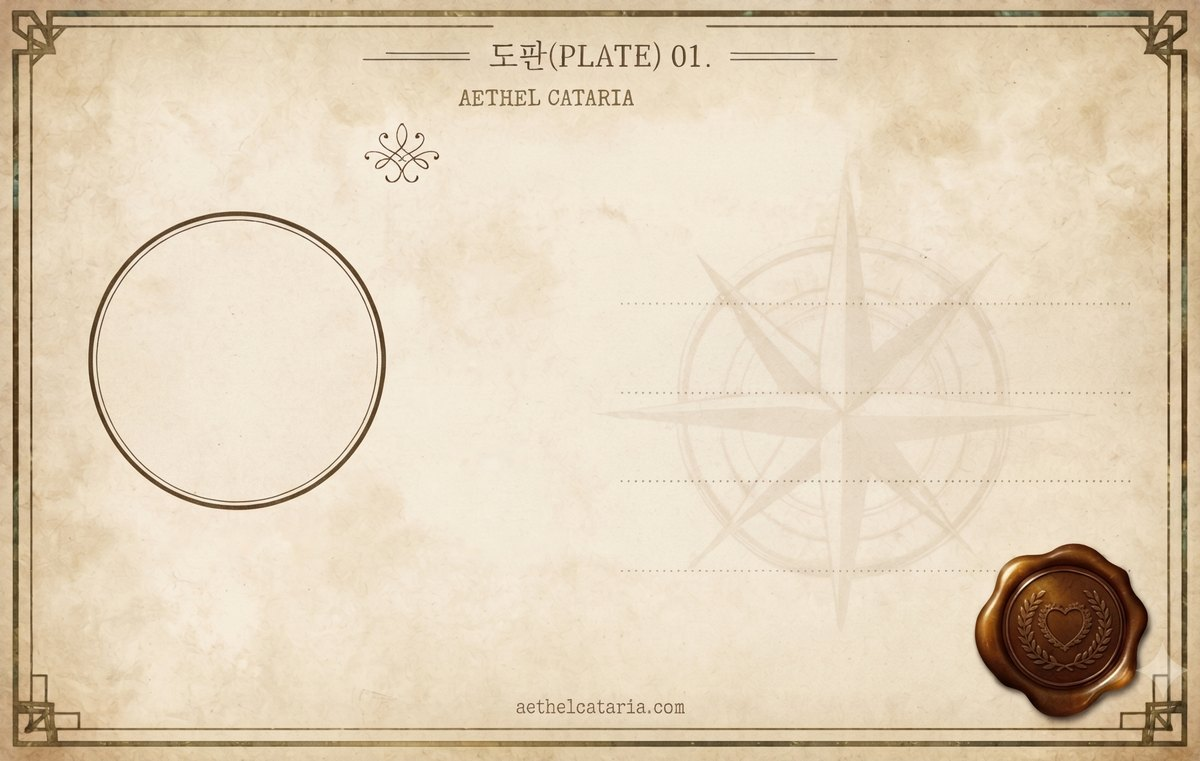
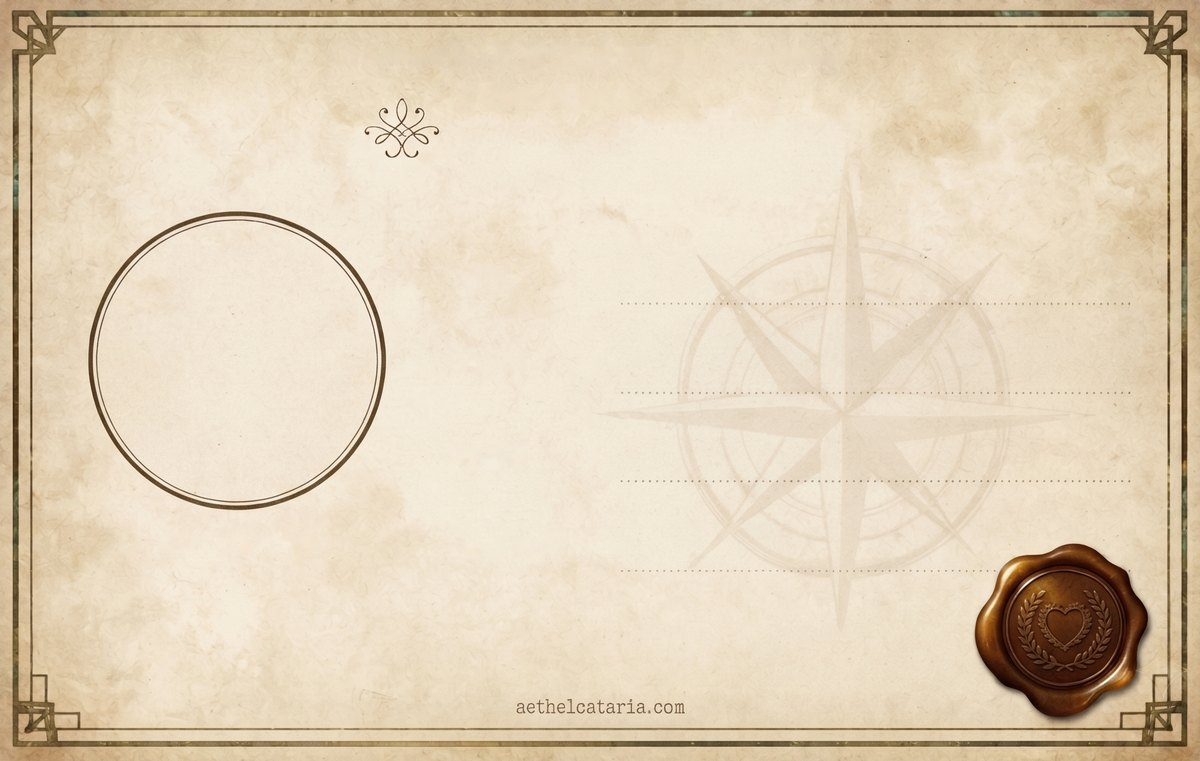
update

diff --git a/citizen.html b/citizen.html
@@ -284,7 +284,8 @@
     x.beginPath(); if(x.roundRect){ x.roundRect(0,0,W,H,12); } else { x.rect(0,0,W,H); } x.clip();
     if(bgImg.complete&&bgImg.naturalWidth){ x.drawImage(bgImg,0,0,W,H); } else { x.fillStyle='#ecdcb4'; x.fillRect(0,0,W,H); }
     // title
-    x.textBaseline='alphabetic'; x.textAlign='left'; x.fillStyle=INK; x.font='46px '+DISP; x.fillText('정원 주민 등록증',458,161);
+    x.textBaseline='alphabetic'; x.textAlign='left'; x.fillStyle=INK; x.fillStyle=LBL; x.font='19px '+MONO; if('letterSpacing' in x) x.letterSpacing='0.5px'; x.fillText('AETHEL CATARIA',458,82); if('letterSpacing' in x) x.letterSpacing='0px';
+    x.fillStyle=INK; x.font='46px '+DISP; x.fillText('정원 주민 등록증',458,140);
     // portrait
     var cx=238,cy=360,r=139;
     x.save(); x.beginPath(); x.arc(cx,cy,r,0,Math.PI*2); x.closePath(); x.clip();
@@ -317,7 +318,14 @@
     x.restore();
     return c.toDataURL('image/png');
   }
-  function fontsReady(){ try{ return Promise.all([document.fonts.load('46px "Gowun Batang"'),document.fonts.load('58px "Song Myung"'),document.fonts.load('22px "Special Elite"')]).catch(function(){}); }catch(e){ return Promise.resolve(); } }
+  var FIXED_TXT='정원 주민 등록증 이름 직업 거주지 등록일 등록 번호 에델 카타리아 영토 · 장부 견 본 발급 약초사 바바 당신의 이름 정원 주민 0123456789년월일 EC- aethelcataria.com AETHEL CATARIA '+PLACES.join('');
+  function allTxt(extra){ var jobs=''; try{ jobs=Array.prototype.map.call(document.getElementById('rzJob').options,function(o){return o.text;}).join(''); }catch(e){} return FIXED_TXT+jobs+(extra||''); }
+  function fontsReady(extra){
+    try{
+      var t=allTxt(extra);
+      return Promise.all([document.fonts.load('30px "Gowun Batang"',t),document.fonts.load('46px "Song Myung"',t),document.fonts.load('22px "Special Elite"','AETHEL CATARIA aethelcataria.com 0123456789')]).catch(function(){});
+    }catch(e){ return Promise.resolve(); }
+  }
   var issuedName='';
   var SHARE_URL='https://aethelcataria.com/citizen.html';
   var SHARE_TEXT='나도 정원 주민이 됐어요! #에델카타리아 #정원주민등록증 · 11월 20일 텀블벅 오픈';
@@ -348,9 +356,14 @@
     }
     if(navigator.clipboard&&navigator.clipboard.writeText){ navigator.clipboard.writeText(SHARE_URL).then(function(){ note('링크를 복사했어요.'); },fallback); } else fallback();
   });
-  function redraw(){
+  function redrawNow(){
     if(issuedName){ var u=draw(issuedName,true); imgEl.src=u; save.href=u; }
     else { imgEl.src=draw('',false); }
+  }
+  function redraw(){
+    var t=allTxt(issuedName+jobValue());
+    var ok=false; try{ ok=document.fonts.check('30px "Gowun Batang"',t)&&document.fonts.check('46px "Song Myung"',t); }catch(e){}
+    if(ok){ redrawNow(); } else { fontsReady(issuedName+jobValue()).then(redrawNow); }
   }
   function sample(){ imgEl.src=draw('',false); }
   var fileEl=document.getElementById('rzFile'), pick=document.getElementById('rzPick'), reset=document.getElementById('rzReset'),
@@ -401,7 +414,7 @@
   form.addEventListener('submit',function(e){
     e.preventDefault();
     var name=nameEl.value.replace(/\s+/g,' ').trim(); if(!name){ nameEl.focus(); return; }
-    Promise.all([ready,fontsReady()]).then(function(){
+    Promise.all([ready,fontsReady(name+jobValue())]).then(function(){
       issuedName=name; var url=draw(name,true); imgEl.src=url; imgEl.alt='주민 등록증: '+name;
       save.href=url; save.download='에델카타리아_주민등록증_'+name.replace(/[\/:*?"<>|]/g,'')+'.png';
       doneName.textContent=name; done.hidden=false;
